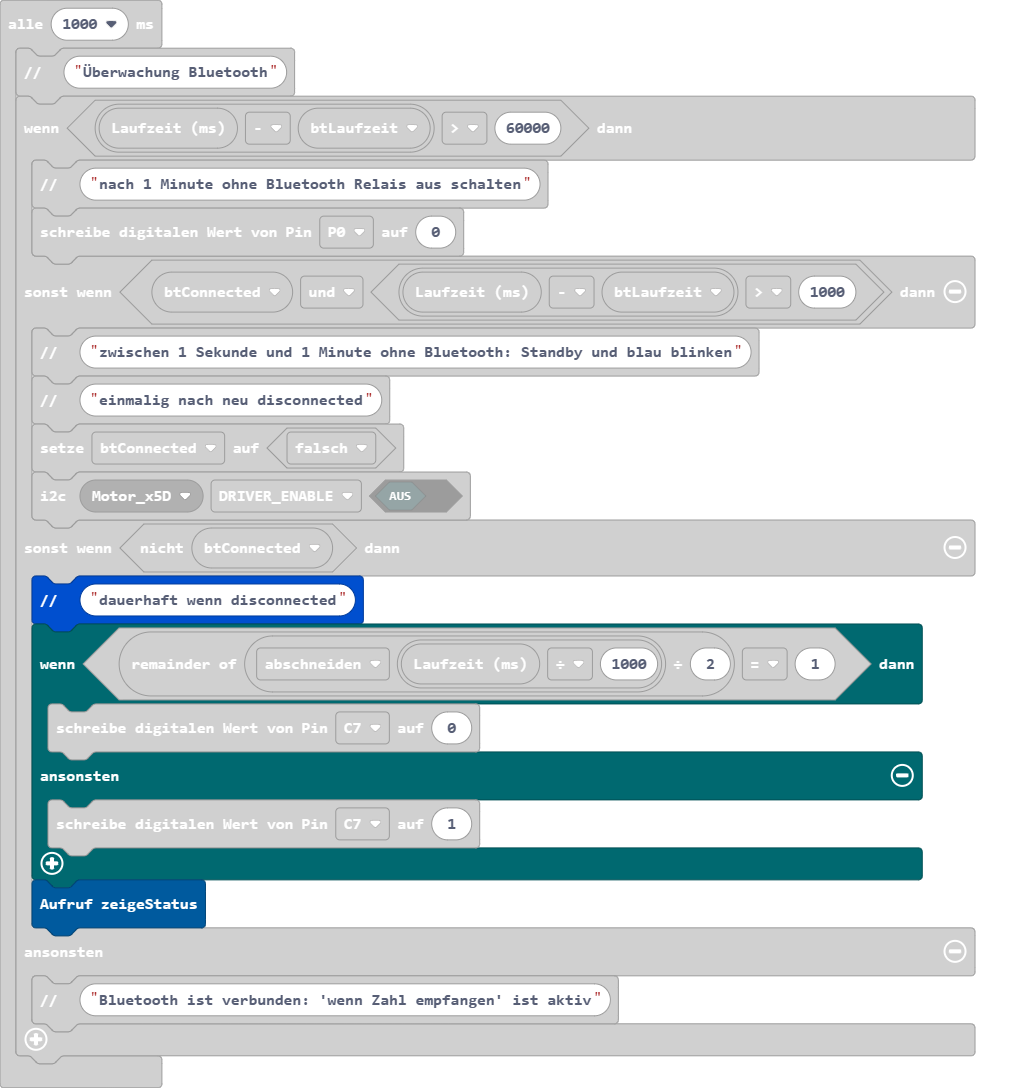
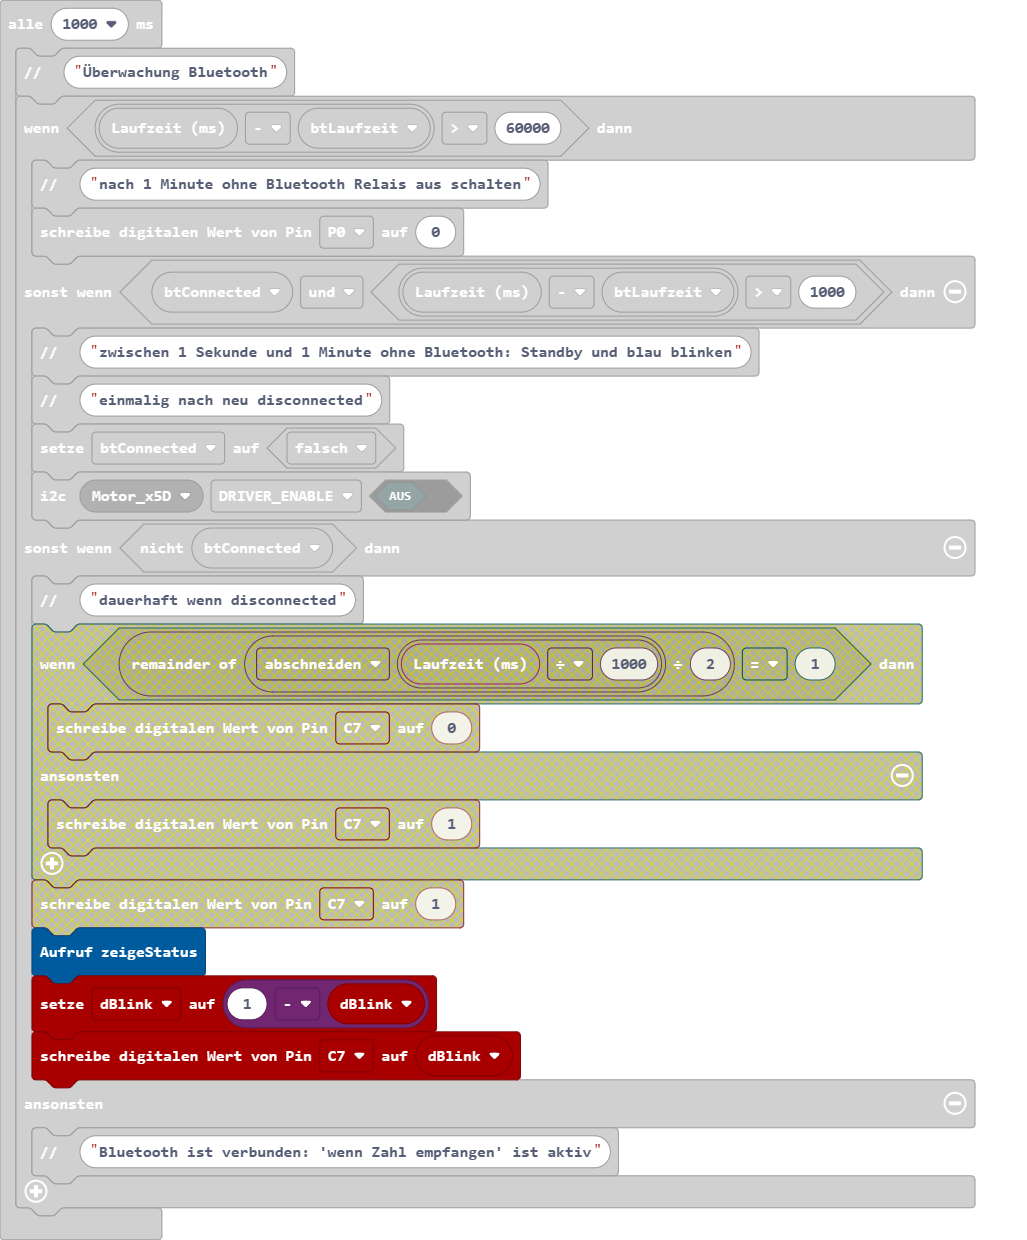
Aktualisiere main.blocks, main.ts

diff --git a/main.ts b/main.ts
@@ -88,6 +88,7 @@ function ServoSteuerung (pWinkel: number) {
         return true
     }
 }
+let dBlink = 0
 let iServo = 0
 let iEncoder = 0
 let iMotor = 0
@@ -119,11 +120,8 @@ loops.everyInterval(1000, function () {
         qwiicmotor.controlRegister(qwiicmotor.qwiicmotor_eADDR(qwiicmotor.eADDR.Motor_x5D), qwiicmotor.eControl.DRIVER_ENABLE, false)
     } else if (!(btConnected)) {
         bit.comment("dauerhaft wenn disconnected")
-        if (Math.trunc(input.runningTime() / 1000) % 2 == 1) {
-            pins.digitalWritePin(DigitalPin.C7, 0)
-        } else {
-            pins.digitalWritePin(DigitalPin.C7, 1)
-        }
+        dBlink = 1 - dBlink
+        pins.digitalWritePin(DigitalPin.C7, dBlink)
         zeigeStatus()
     } else {
         bit.comment("Bluetooth ist verbunden: 'wenn Zahl empfangen' ist aktiv")
